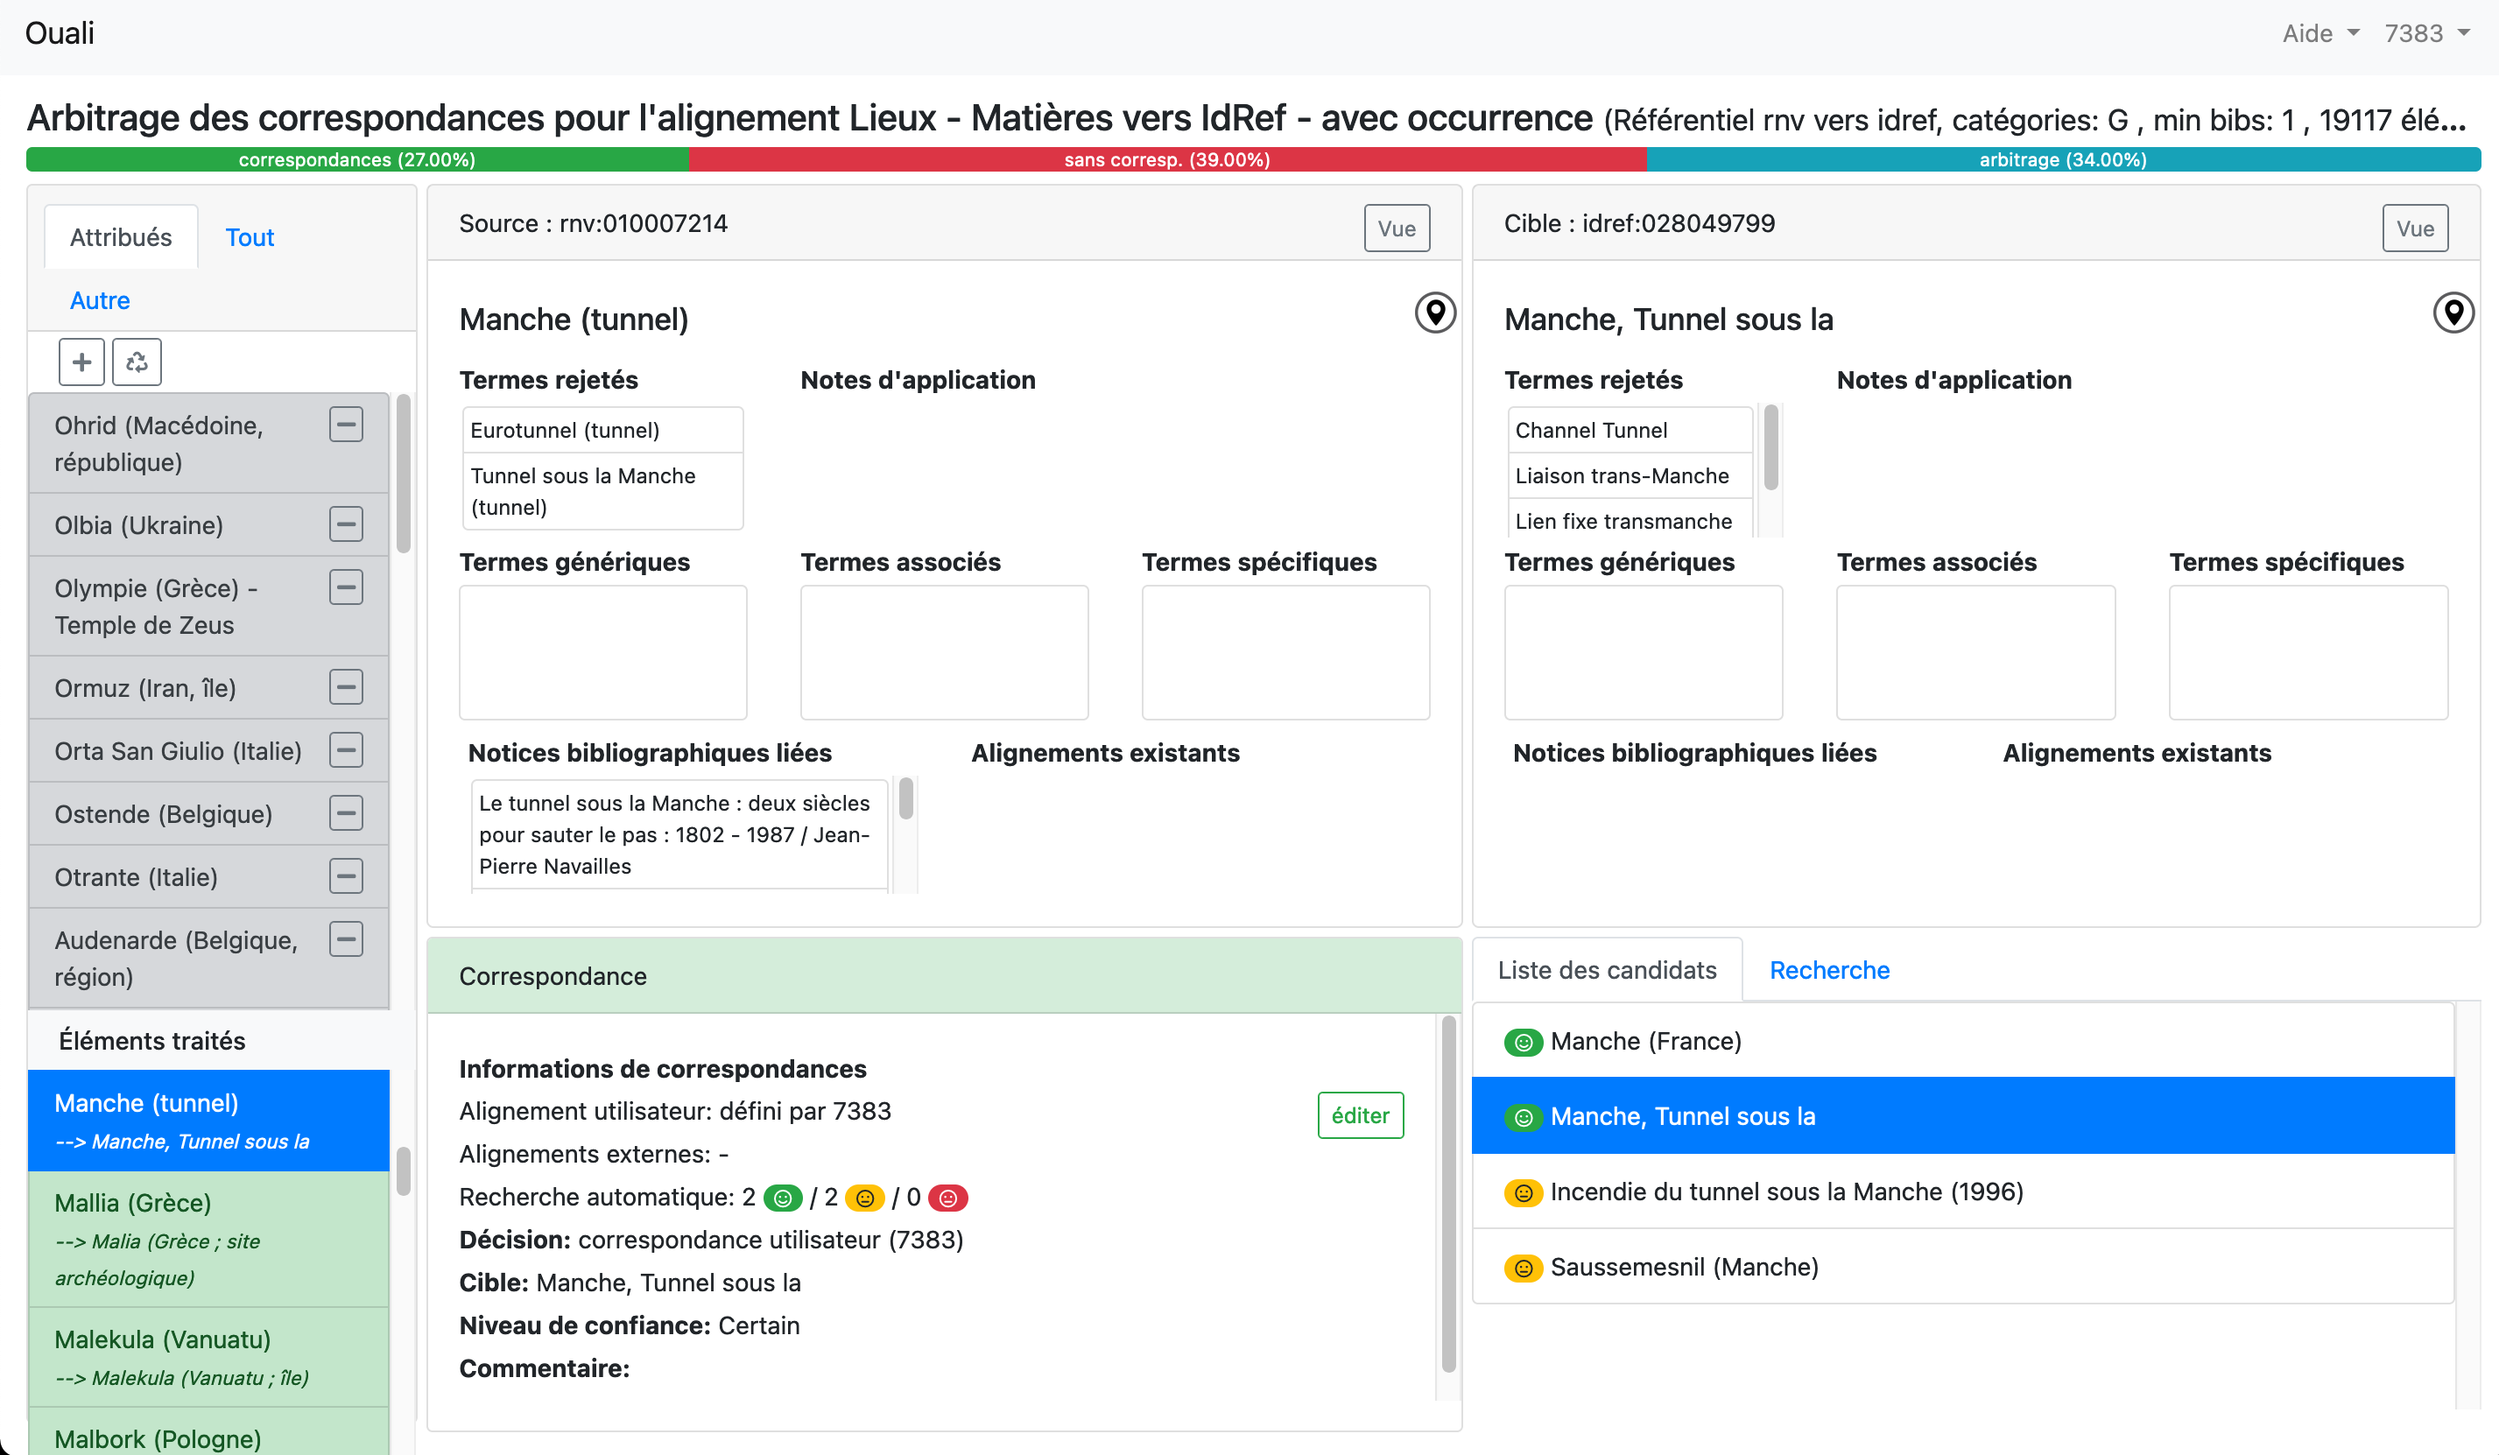
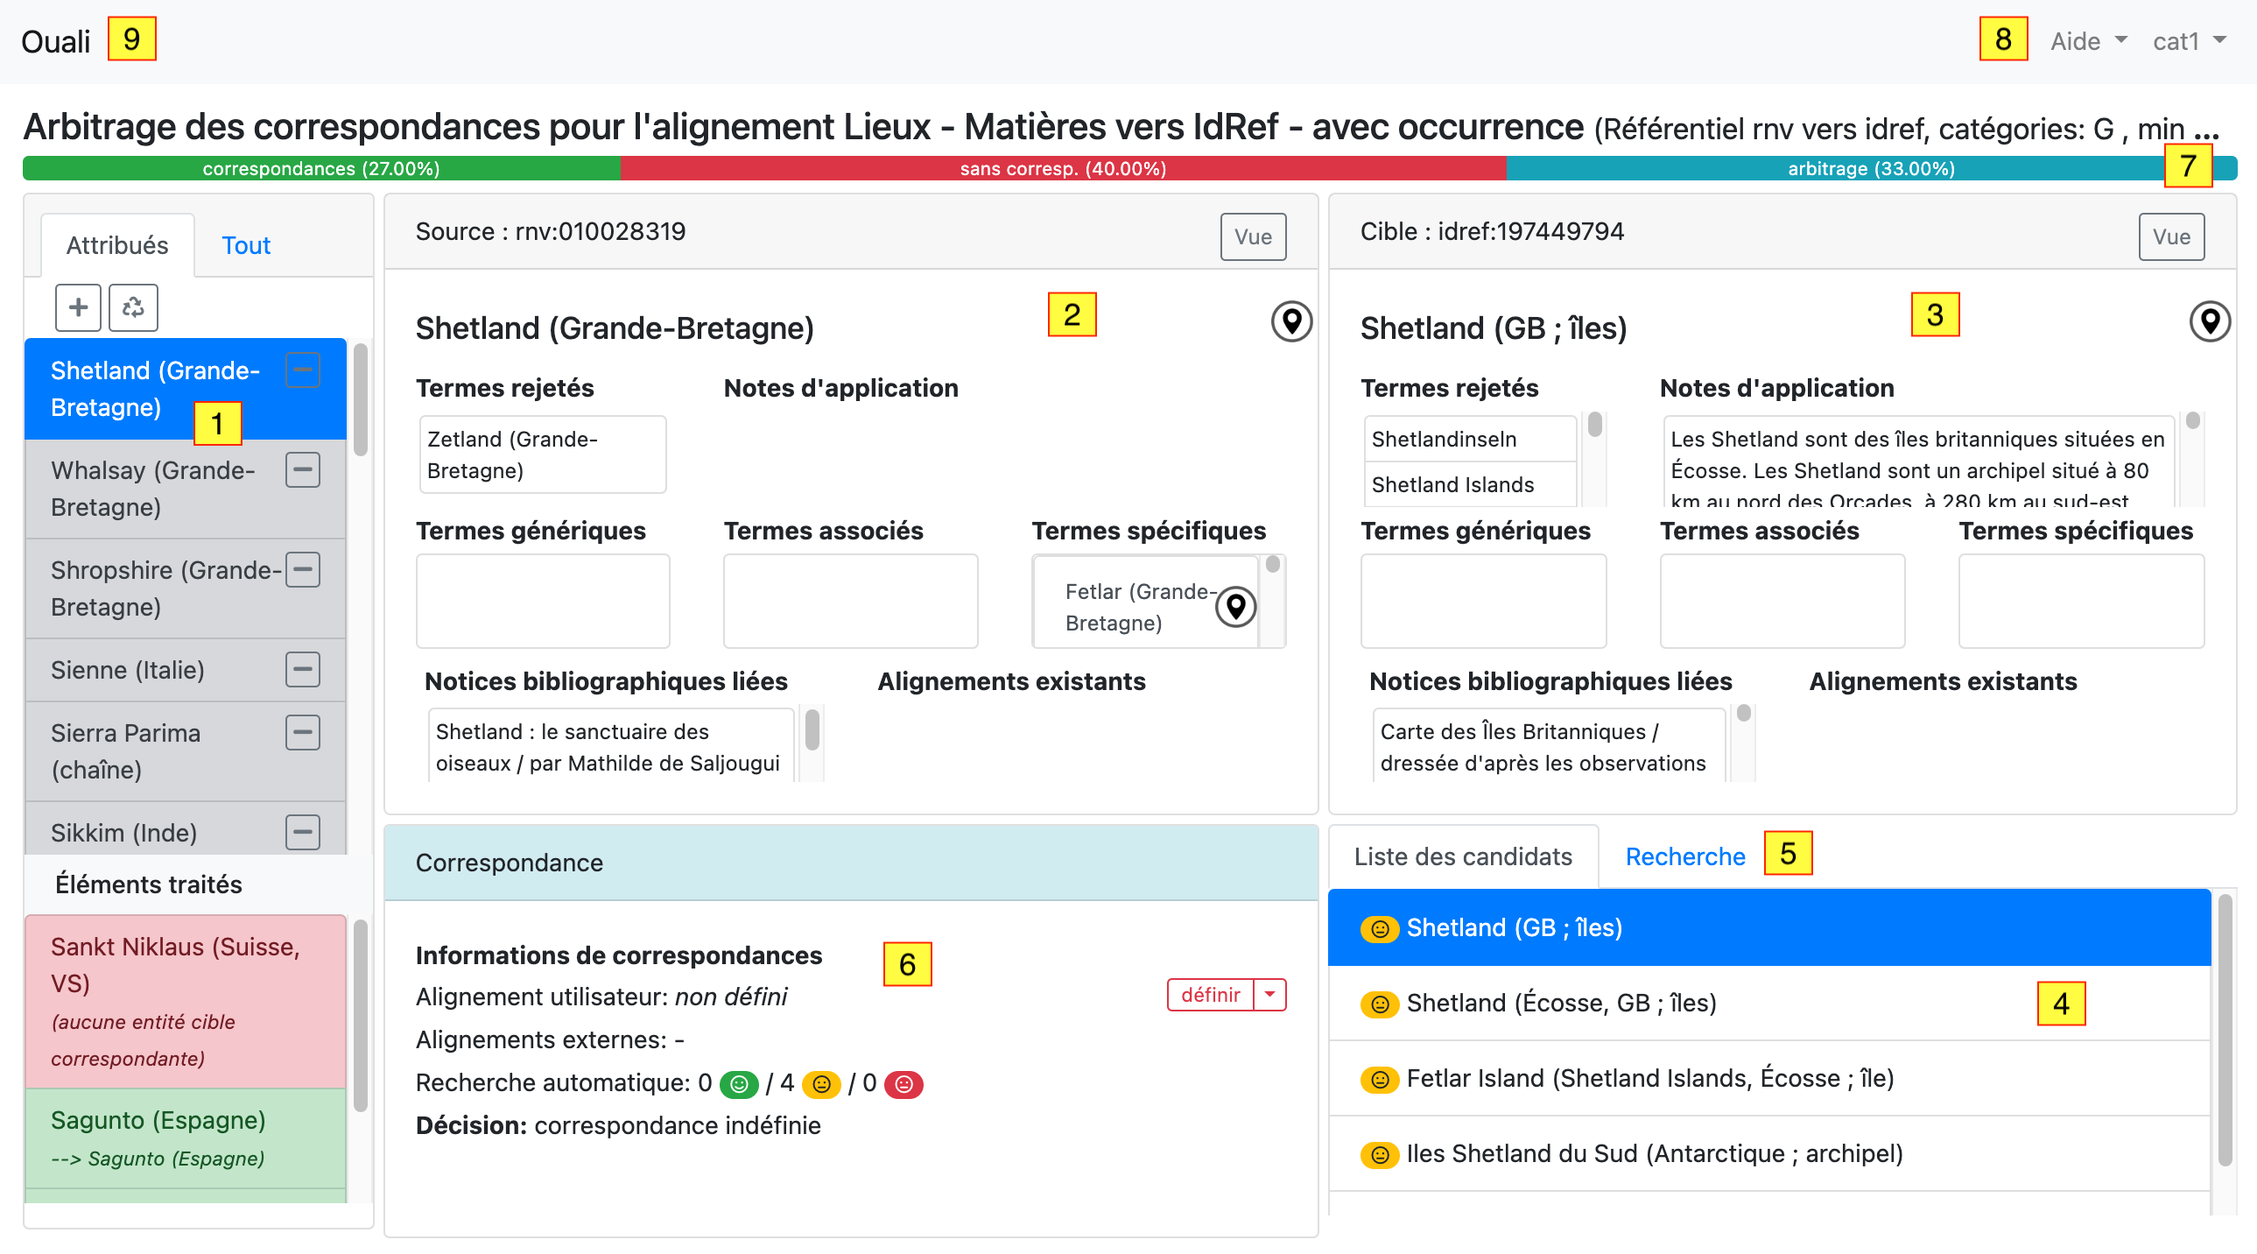
Ajout de détails sur l'interface

diff --git a/interface.md b/interface.md
@@ -1,6 +1,7 @@
 ---
 layout: default
 title: 2. Interface Ouali
+has_children: true
 nav_order: 3
 description: "Présentation de l'interface d'Ouali et des outils à disposition"
 permalink: /interface
@@ -17,49 +18,107 @@ difficultés à vous connecter à Ouali.
 
 ## Fonctionnement général
 
+Le système Ouali gère des alignements de notices d'autorité entre un référentiel source et un référentiel cible. Chaque _alignement_
+représente une notice d'autorité du référentiel source aligné vers une notice dans le référentiel cible.
 
-
-
-Le système Ouali gère des alignements entre des paires 
-
-
-
-
-(source-cible) de référentiels. Un alignement consiste à définir pour chaque élément du référentiel source une correspondance vers un élément cible (ou une non-correspondance lorsque aucun élément cible ne correspond). Ainsi, chaque alignement (entre deux référentiels) est constitué de nombreuses correspondances (entre des éléments des référentiels concernés)
-
-Pour construire ces alignements, le système effectue, pour chaque élément source, une recherche d’éléments cibles correspondants qui sont ensuite comparés de manière détaillée au moyen d’un algorithme de correspondance. En fonction des résultats de ces calculs de correspondance, le système va émettre une décision pour l’élément source concerné qui consistera soit à établir automatiquement des informations de correspondance pour l’élément source (avec ou sans entité cible correspondante), soit de mettre l’élément source en état d’attente d’arbitrage manuel.
+Pour construire ces alignements, le système effectue, pour chaque notice du référentiel source, une recherche de notices dans le 
+référentiel cible correspondantes qui sont ensuite comparés de manière détaillée au moyen d’un algorithme. 
+En fonction des résultats de ces calculs de correspondance, le système va émettre une décision pour la notice source concernée qui 
+consistera soit à établir automatiquement soit une décision d'alignement vers une notice correspondante dans le référentiel cible,
+soit une décision de non-alignement (il n'y a pas d'équivalence dans le référentiel cible), soit encore de laisser la notice source
+en état d’attente d’arbitrage manuel.
 
 Ces éléments en attente d’arbitrage peuvent ensuite être traités au moyen de l’interface d’arbitrage décrite dans ce manuel et ainsi compléter l’alignement.
+
+Chaque utilisateur se voit automatiquement attribuer un ensemble de notices à arbitrer (initialement 25) qu’il peut alors traiter à son rythme, tout en rejetant les cas qu’il n’est pas en mesure de traiter. Au fur et à mesure de l’avancement, des nouveaux éléments sont automatiquement attribués en fin de liste à de sorte à conserver un ensemble contenant toujours au moins 25 éléments jusqu’à ce que la totalité des cas à arbitrer soit traitée. 
+
+Les éléments restent attribués pour une période de 10 jours au maximum (remis à zéro lors de chaque connexion sur Ouali). Ensuite, ils redeviennent disponibles pour être attribués à d’autres utilisateurs.
+
+## Codes de couleur
+
+Lorsqu'une **décision d'alignement** vers une notice du référentiel cible a été effectuée (soit automatiquement soit après arbitrage
+manuel), la notice s'affiche en **vert** dans Ouali.
+
+Lorsqu'une **décision de non-alignement** a été effectuée (automatiquement ou manuellement), la notice s'affiche en **rouge**.
+
+Lorsqu'une notice est **en attente d'arbitrage** (aucune décision n'a encore été prise), elle s'affiche en **gris**.
+
+La notice **actuellement sélectionnée** (sur laquelle on travaille) s'affiche en **bleu**.
+
+## Liste des instances
+
+Une fois identifié dans Ouali, la liste des [instances](chantiers#instances-ouali) s'affiche. Cliquer sur le bouton "Arbitrage" pour
+ouvrir l'une des instances et débuter le travail d'arbitrage.
+
+![Liste des instances dans l'interface Ouali](/img/interface-liste-instances.png) 
+
+Noter qu'il peut être nécessaire de faire défiler la liste des instances pour les afficher toutes.
 
 ## Interface d'arbitrage
 
 Lorsque vous ouvrez une nouvelle instance, la fenêtre suivante s'affiche.
 
-Chaque utilisateur se voit automatiquement attribuer un ensemble d’éléments à arbitrer (initialement 25) qu’il peut alors traiter à son rythme, tout en rejetant les cas qu’il n’est pas en mesure de traiter. Au fur et à mesure de l’avancement, des nouveaux éléments sont automatiquement attribués en fin de liste à de sorte à conserver un ensemble contenant toujours au moins 25 éléments jusqu’à ce que la totalité des cas à arbitrer aient été traités. 
+![Interface d'arbitrage Ouali](/img/interface-alignement.png) 
 
-Les éléments restent attribués pour une période de 10 jours au maximum (remis à zéro lors de chaque connexion sur Ouali). Ensuite, ils redeviennent disponibles pour être attribués à d’autres utilisateurs.
+On remarque les éléments d'interface suivants (décrits plus en détail plus loin):
 
-Le processus d’arbitrage manuel consiste à sélectionner un élément source à traiter dans les liste des éléments à traiter (1) pour l’analyser (2) ensuite choisir l’entité cible correspondante (3) au moyen de la liste des candidats automatiques (4) ou au moyen d’une recherche manuelle (5). Une fois qu’une entité cible correspondante a été sélectionnée, ou qu’aucune entité cible correspondante n’a pu être identifiée, il est alors possible de définir le détail des informations de correspondance (type, niveau de confiance, …) au moyen du formulaire adéquat (6).
+1. Liste des notices à traiter dans le référentiel source
+2. Détail de la notice source en cours de traitement (sélectionnée dans la liste 1)
+3. Détail de la notice candidate cible (sélectionnée dans la liste 4)
+4. Liste des candidats automatiques proposés par Ouali
+5. Onglet Recherche pour lancer une recherche manuelle dans le référentiel cible
+6. Formulaire d'alignement
+7. Barre de progression de l'instance active (nombres d’éléments avec ou sans correspondance et en attente d’arbitrage)
+8. Menu d'aide et menu utilisateur (pour se déconnecter)
+9. Retour à la liste des instances
 
-![Interface Ouali](/img/interface-alignement.png) 
+Le processus d’arbitrage manuel consiste à sélectionner une notice source à traiter dans les liste des éléments à traiter (1) pour l’analyser (2) ensuite choisir l’entité cible correspondante (3) au moyen de la liste des candidats automatiques (4) ou au moyen d’une recherche manuelle (5). Une fois qu’une entité cible correspondante a été sélectionnée, ou qu’aucune entité cible correspondante n’a pu être identifiée, il est alors possible de définir le détail des informations de correspondance au moyen du formulaire d'alignement (6).
 
-Les numéros et lettres ci-dessous correspondent aux numéros sur la figure.
+### 1. Liste des notices à traiter
 
-1. Liste des éléments sources comprenant un onglet nommé Attribués pour accéder à la liste des éléments attribués spécifiquement à soi, ou traités par soi, et un onglet Tout contenant tous les éléments.
-    1. Bouton permettant d’obtenir des éléments attribués supplémentaires (ajoutés en fin de liste)
-    2. Bouton permettant de rejeter tous les éléments attribués et de recevoir un nouvel ensemble d’éléments attribués
-    3. Bouton pour rejeter un élément spécifique
-    4. Liste des éléments traités précédemment
-2. Détail de l’élément source en cours de traitement. La couleur de l’en-tête indique l’état de la correspondance pour cet élément: bleu = aucune information de correspondance définie (en arbitrage), vert = correspondance avec un élément cible définie, rouge = correspondance sans élément cible (rejet)
+Cet élément d'interface contrôle quelle notice du référentiel source est sélectionnée pour traitement.
+
+L'onglet "Attribués" s'affiche par défaut:
+
+![Liste des notices attribuées](/img/interface-source-attribue.png) 
+
+Cette liste comporte les notices qui ont été attribuées automatiquement à l'usager actif. Les opérations suivantes sont possibles
+
+a. Obtenir des notices attribuées supplémentaries (ajoutées en fin de liste)
+b. Rejeter tous les éléments attribués et de recevoir un nouvel ensemble d’éléments attribués
+c. Rejeter un élément spécifique et le renvoyer dans le lot général des notices à traiter. C'est l'option à choisir lorsqu'on n'est pas certain de la décision à prendre. La notice sera réattribuée à un autre usager.
+d. Cliquer sur une notice dans la liste pour la sélectionner et l'afficher dans la partie 2 de l'interface.
+e. Il est également possible de sélectionner ici une notice déjà traitée et ainsi modifier une décision déjà prise (par exemple pour corriger une erreur).
+
+En cliquant sur l'onglet "Tout" on accède à la liste de toutes les notices présentes dans le référentiel source actif. 
+
+![Liste de toutes les notices du référentiel source](/img/interface-source-attribue.png) 
+
+On peut ici rechercher une notice dans le référentiel source par texte ou avec son numéro de notice, ou naviguer la liste des notices
+avec les options de pagination.
+
+Noter que les résultats d'une recherche s'affichent dans la page 1 de la liste. Lorsqu'on fait une recherche dans cet onglet, s'assurer
+que la page 1 est sélectionnée.
+
+### 2. Détail de la notice source    
+
+Détail de l’élément source en cours de traitement. La couleur de l’en-tête indique l’état de la correspondance pour cet élément: bleu = aucune information de correspondance définie (en arbitrage), vert = correspondance avec un élément cible définie, rouge = correspondance sans élément cible (rejet)
     1. Bouton permettant d’accéder à la vue MARC de l’entité
     2. Liste des notices bibliographiques liées et des correspondances existantes (partie droite)
-3. Détail de l’élément cible (forme du contenu identique à l’élément source)
-4. Liste des candidats automatiques avec une indication sur le résultat de correspondance automatique
-5. Onglet permettant d’accéder à la recherche directe, si les candidats automatiques ne semblent pas satisfaisants.
-6. Panneau de correspondance pour l’élément source, et formulaire de correspondance utilisateur (voir ci-dessous)
-7. Etat global de l’alignement (nombres d’éléments avec ou sans correspondance et en attente d’arbitrage)
 
-### Panneau de correspondance
+### 3. Détail de la notice cible   
+
+Détail de l’élément cible (forme du contenu identique à l’élément source)
+
+### 4. Liste des candidats
+
+Liste des candidats automatiques avec une indication sur le résultat de correspondance automatique
+
+### 5. Recherche dans le référentiel cible
+
+Onglet permettant d’accéder à la recherche directe, si les candidats automatiques ne semblent pas satisfaisants.
+
+### 6. Panneau de correspondance
 Ce panneau donne une vue d’ensemble des diverses sources de correspondance existante pour cet objet. Cela comprend:
 
 * Alignement utilisateur: correspondance (non-correspondance) précise définie explicitement par un utilisateur (correspondance manuelle)

diff --git a/glossaire.md b/glossaire.md
@@ -14,4 +14,7 @@ Dans le cadre du projet Ouali, on définit les termes suivants
 | Terme                  | Définition                                                                                                |
 |------------------------|-----------------------------------------------------------------------------------------------------------|
 | Alignement             | Un alignement est une équivalence exacte entre un terme du référentiel source et un terme du référentiel cible. Par exemple _Manche (tunnel)_ (rnv:010007214) --> _Manche, Tunnel sous la_ (idref:028049799) |
+| Cible                 | Le référentiel _cible_ est le fichier d'autorité _vers lequel_ on définit un alignement. Par exemple, dans le cas d'un alignement des ATC vers IdRef, les ATC sont la _source_ et IdRef la _cible_. |
 | Instance               | Le chantier d'alignement est séparé en plusieurs lots en fonction de la catégorie des termes d'autorité, les référentiels source et cible, et parfois le nombre de notices bibliographiques liées. À chaque lot ainsi défini correspond une instance Ouali. [Voir la liste des instances pour plus de détails.](chantiers#instances-ouali)|
+| Référentiel            | Un référentiel est un des fichiers d'autorité avec lesquels on travaille. Rnv-mat, ATC et IdRef sont des référentiels. Voir aussi _source_ et _cible_.|
+| Source                 | Le référentiel _source_ est le fichier d'autorité _à partir duquel_ on définit un alignement. Par exemple, dans le cas d'un alignement des ATC vers IdRef, les ATC sont la _source_ et IdRef la _cible_. |

diff --git a/regles.md b/regles.md
@@ -12,6 +12,9 @@ Cette section décrit les règles à suivre lors de l'arbitrage des alignements 
 
 * [Collectivités et congrès](congres)
 
+Ces procédures sont en cours de développement et restent à discuter par le groupe de travail Ouali.
+Elles sont donc amenées à évoluer.
+
 ## Généralités
 
 Le but du projet est de remplacer les référentiels existants par IdRef. On cherche donc à remplacer chaque notice d'autorité
